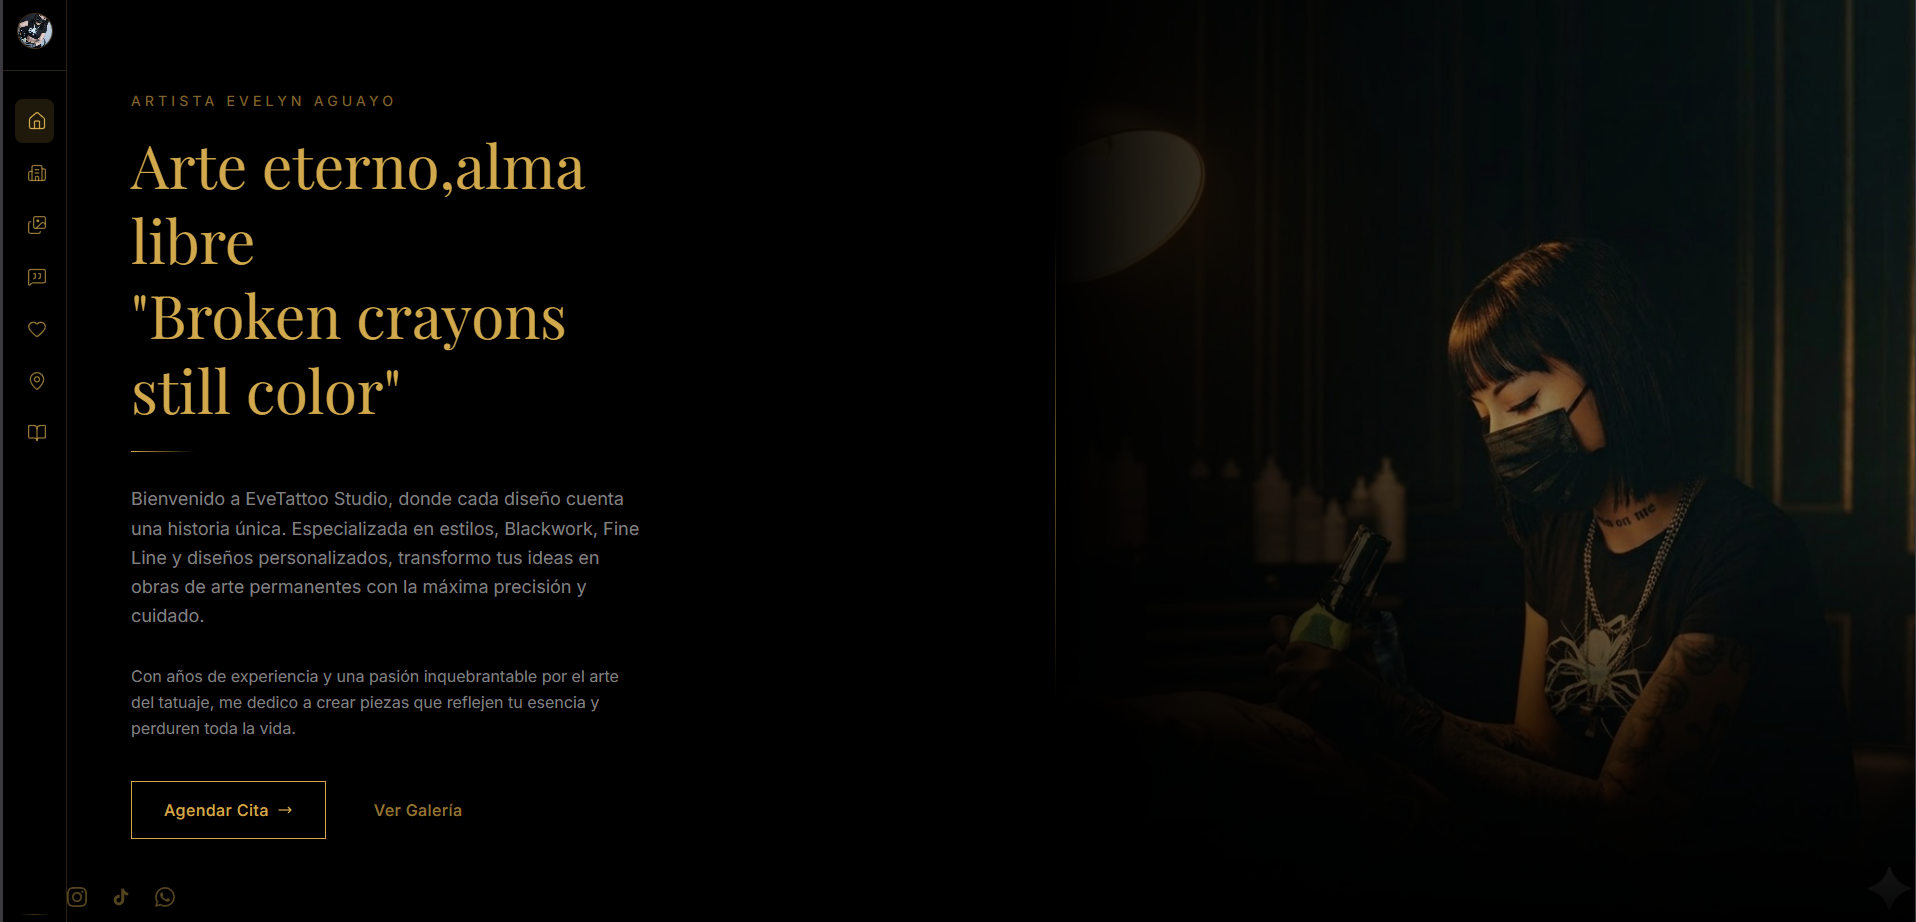
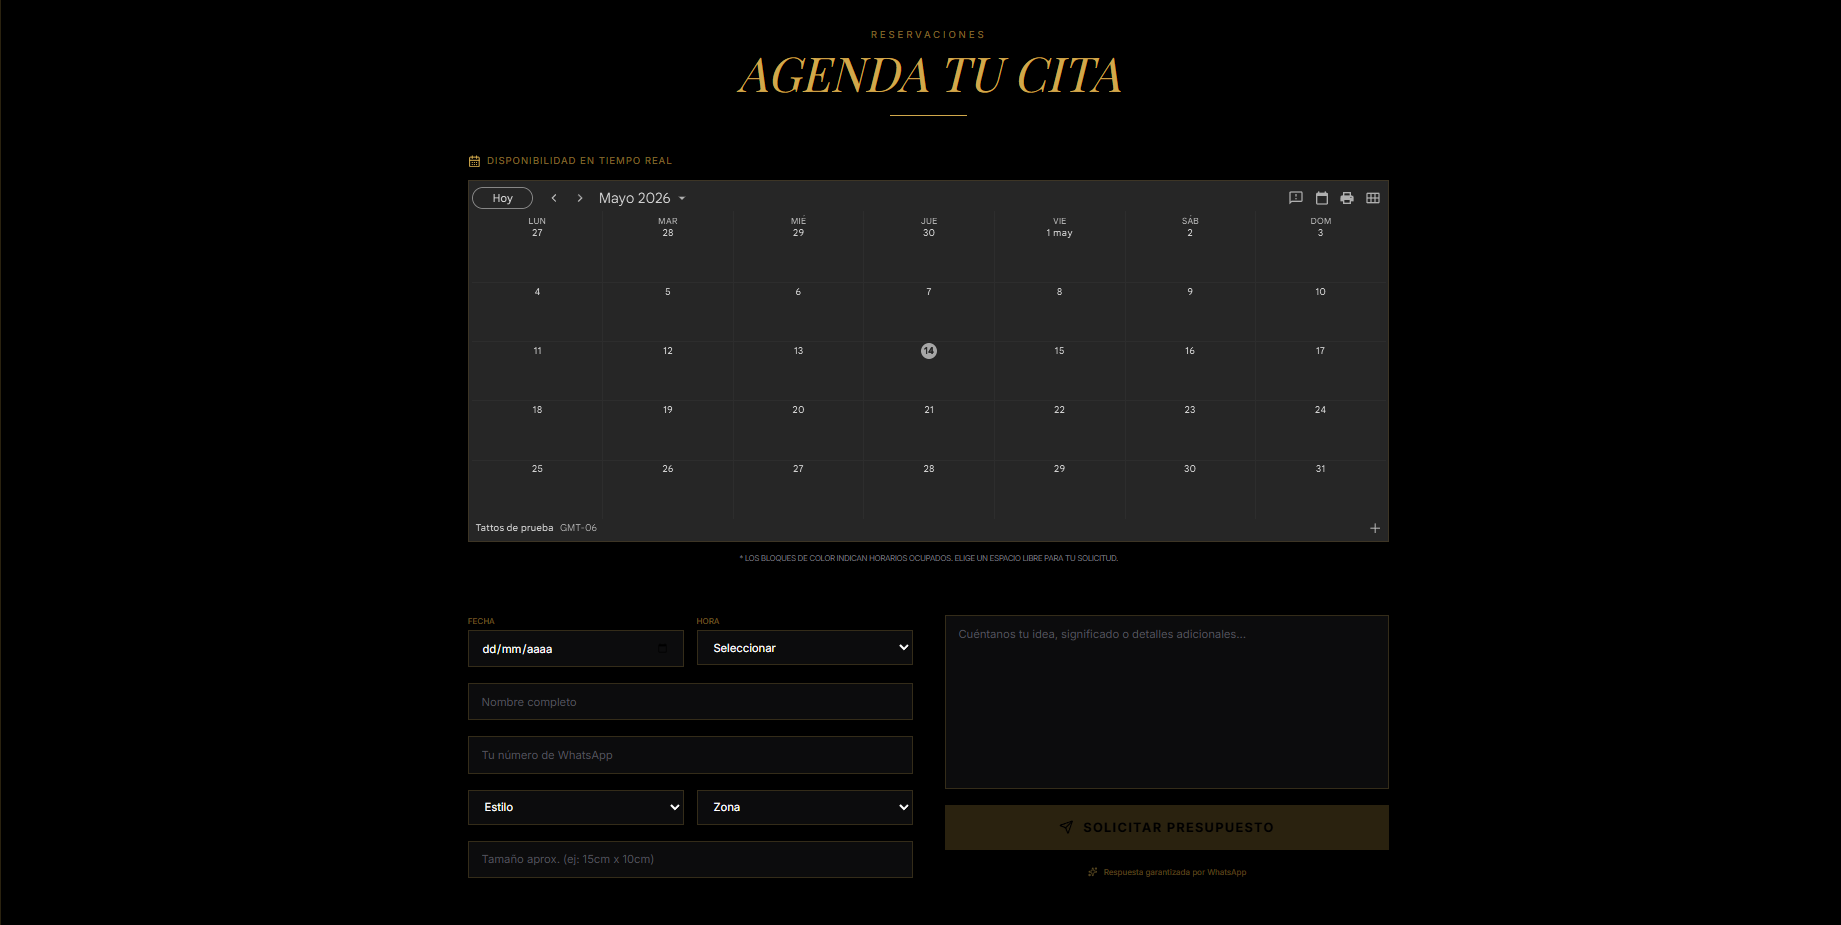
fix

diff --git a/app/my-services/page.tsx b/app/my-services/page.tsx
@@ -10,27 +10,22 @@ const technologies = [
 const services = [
   {
     title: "Páginas Web",
-    desc: "Desarrollo de sitios web modernos, rápidos y responsivos.",
+    desc: "Desarrollo de aplicaciones web completas con frontend moderno y backend robusto en Go, Python o Node.js.",
     icon: Globe,
   },
   {
-    title: "Apps Móviles",
-    desc: "Creación de aplicaciones funcionales para iOS y Android.",
-    icon: Smartphone,
-  },
-  {
     title: "Mantenimiento",
-    desc: "Mantenimiento básico y optimización de equipos de cómputo.",
+    desc: "Optimización, limpieza, formateo y actualización de equipos de cómputo para garantizar su rendimiento.",
     icon: Laptop,
   },
   {
     title: "Instalación de Apps",
-    desc: "Instalación y configuración de software a medida.",
+    desc: "Instalación y configuración de software de desarrollo, servidores, bases de datos y herramientas profesionales.",
     icon: Settings,
   },
   {
     title: "Soporte Técnico",
-    desc: "Asistencia remota y presencial para resolver cualquier problema.",
+    desc: "Asistencia remota y presencial en infraestructura TI: servidores, redes, despliegue de software, administración de sistemas y resolución de incidencias técnicas.",
     icon: Wrench,
   },
 ];

diff --git a/app/about/page.tsx b/app/about/page.tsx
@@ -32,7 +32,7 @@ export default function AboutPage() {
               coberturas de testing superiores al 95%.
             </p>
             <p>
-              Cuento con experiencia sólida en infraestructura Cloud (AWS) y
+              Cuento con experiencia en infraestructura Cloud (AWS) y
               orquestación con Docker y Kubernetes para garantizar despliegues
               robustos y monitoreados.
             </p>

diff --git a/app/portfolio/page.tsx b/app/portfolio/page.tsx
@@ -4,7 +4,7 @@ import { Badge } from "@/components/ui/badge";
 
 const projects = [
   {
-    title: "Appointmetly - Sistema de Gestión de Citas",
+    title: "Appointmetly - Sistema de Gestión de Citas/Cuentas/Cobros",
     desc: "Plataforma de reservas en línea con backend en Go-Python y PostgreSQL.",
     tags: ["Go", "Python", "PostgreSQL", "Docker", "Kubernetes"],
     colors: ["rgb(147,51,234)", "rgb(0,255,255)"],

diff --git a/app/page.tsx b/app/page.tsx
@@ -16,7 +16,7 @@ export default function Home() {
         <h1 className="text-5xl md:text-7xl font-semibold text-foreground leading-tight">
           Hola, soy{" "}
           <span className="text-transparent bg-clip-text bg-linear-to-r from-purple-400 to-purple-600">
-            Miguel
+            Miguel Lopez
           </span>
         </h1>
 
